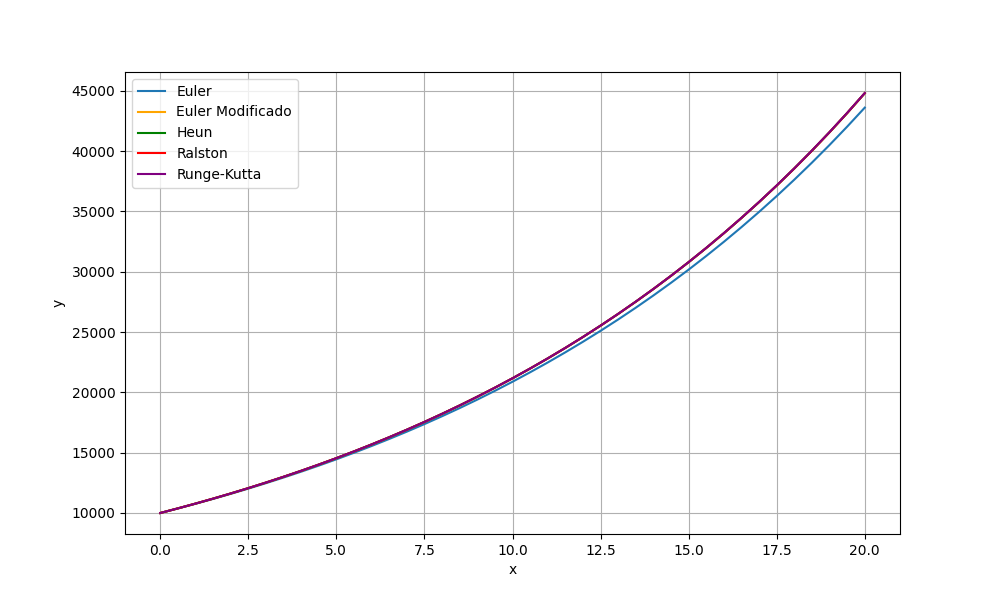
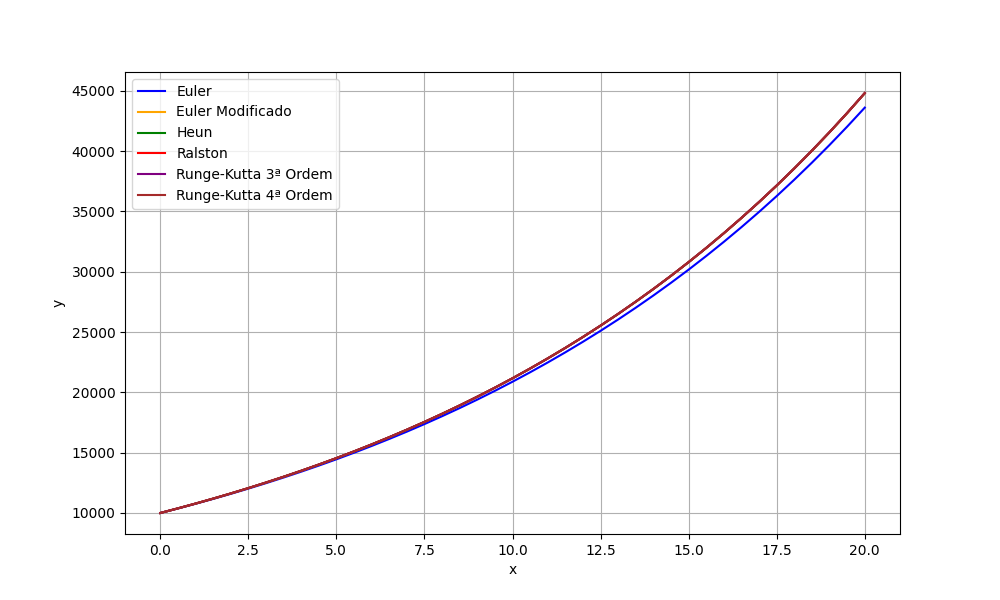
chore: Remove commented code and update output format for Runge-Kutta method

diff --git a/src/Relatorio3/plot_comparacao.py b/src/Relatorio3/plot_comparacao.py
@@ -4,25 +4,15 @@ from euler import euler
 from euler_modificado import euler_modificado
 from heun import heun
 from ralston import ralston
-from runge_kutta import runge_kutta
+from runge_kutta import runge_kutta_terceira_ordem, runge_kutta_quarta_ordem
 
 def plot_all(data: list[(float, float)], output: str, labels: list):
     fig, ax = plt.subplots(figsize=(10, 6))
+    colors = ['blue', 'orange', 'green', 'red', 'purple', 'brown']
     
-    x, y = zip(*data[0])
-    ax.plot(x, y, label=labels[0])
-    
-    x, y = zip(*data[1])
-    ax.plot(x, y, label=labels[1], color='orange')
-    
-    x, y = zip(*data[2])
-    ax.plot(x, y, label=labels[2], color='green')
-    
-    x, y = zip(*data[3])
-    ax.plot(x, y, label=labels[3], color='red')
-    
-    x, y = zip(*data[4])
-    ax.plot(x, y, label=labels[4], color='purple')
+    for i in range(6):
+        x, y = zip(*data[i])
+        ax.plot(x, y, label=labels[i], color=colors[i])
     
     ax.set_xlabel('x')
     ax.set_ylabel('y')
@@ -33,42 +23,16 @@ def plot_all(data: list[(float, float)], output: str, labels: list):
 
 def plot_all_side(data: list[(float, float)], output: str, labels: list[str]):
     fig, ax = plt.subplots(2, 3, figsize=(10, 6), sharey=True)
+    colors = ['blue', 'orange', 'green', 'red', 'purple', 'brown']
     
-    x, y = zip(*data[0])
-    ax[0, 0].plot(x, y, label=labels[0])
-    ax[0, 0].set_title('Método de Euler')
-    ax[0, 0].set_xlabel('x')
-    ax[0, 0].set_ylabel('y')
-    ax[0, 0].grid(True)
+    for i in range(len(data)):
+        x, y = zip(*data[i])
+        ax[i // 3, i % 3].plot(x, y, label=labels[i], color=colors[i])
+        ax[i // 3, i % 3].set_title(f'Método de {labels[i]}')
+        ax[i // 3, i % 3].set_xlabel('x')
+        ax[i // 3, i % 3].grid(True)
     
-    x, y = zip(*data[1])
-    ax[0, 1].plot(x, y, label=labels[1], color='orange')
-    ax[0, 1].set_title('Método de Euler Modificado')
-    ax[0, 1].set_xlabel('x')
-    ax[0, 1].grid(True)
-    
-    x, y = zip(*data[2])
-    ax[0, 2].plot(x, y, label=labels[2], color='green')
-    ax[0, 2].set_title('Método de Heun')
-    ax[0, 2].set_xlabel('x')
-    ax[0, 2].grid(True)
-    
-    x, y = zip(*data[3])
-    ax[1, 0].plot(x, y, label=labels[3], color='red')
-    ax[1, 0].set_title('Método de Ralston')
-    ax[1, 0].set_xlabel('x')
-    ax[1, 0].set_ylabel('y')
-    ax[1, 0].grid(True)
-    
-    x, y = zip(*data[4])
-    ax[1, 1].plot(x, y, label=labels[4])
-    ax[1, 1].set_title('Método de Runge-Kutta', color='purple')
-    ax[1, 1].set_xlabel('x')
-    ax[1, 1].grid(True)
-    
-    ax[1, 2].axis('off')
     fig.tight_layout()
-    
     
     plt.savefig(output)
 
@@ -92,7 +56,8 @@ results.append(euler(f, amplitude, limite_inf, limite_sup, valor_inicial))
 results.append(euler_modificado(f, amplitude, limite_inf, limite_sup, valor_inicial))
 results.append(heun(f, amplitude, limite_inf, limite_sup, valor_inicial))
 results.append(ralston(f, amplitude, limite_inf, limite_sup, valor_inicial))
-results.append(runge_kutta(f, amplitude, limite_inf, limite_sup, valor_inicial))
+results.append(runge_kutta_terceira_ordem(f, amplitude, limite_inf, limite_sup, valor_inicial))
+results.append(runge_kutta_quarta_ordem(f, amplitude, limite_inf, limite_sup, valor_inicial))
 
-plot_all(results, "outputs/exercicio_12.10_comparacao.png", ["Euler", "Euler Modificado", "Heun", "Ralston", "Runge-Kutta"])
-plot_all_side(results, "outputs/exercicio_12.10_comparacao_lado-a-lado.png", ["Euler", "Euler Modificado", "Heun", "Ralston", "Runge-Kutta"])
+plot_all(results, "outputs/exercicio_12.10_comparacao.png", ["Euler", "Euler Modificado", "Heun", "Ralston", "Runge-Kutta 3ª Ordem", "Runge-Kutta 4ª Ordem"])
+plot_all_side(results, "outputs/exercicio_12.10_comparacao_lado-a-lado.png", ["Euler", "Euler Modificado", "Heun", "Ralston", "Runge-Kutta 3ª Ordem", "Runge-Kutta 4ª Ordem"])

diff --git a/src/Relatorio3/runge_kutta.py b/src/Relatorio3/runge_kutta.py
@@ -1,7 +1,41 @@
 import sympy as sp
 from plot import plot
 
-def runge_kutta(f: sp.Expr, h: float, a: float, b: float, y0: float) -> list[(float, float)]:
+def runge_kutta_terceira_ordem(f: sp.Expr, h: float, a: float, b: float, y0: float) -> list[(float, float)]:
+    """Calcula a solução de uma equação diferencial ordinária de primeira ordem pelo método de Runger-Kutta.
+
+    Args:
+        f (sp.Expr): Expressão da função f(x, y)
+        h (float): Tamanho do passo
+        a (float): Limite inferior do intervalo
+        b (float): Limite superior do intervalo
+        y0 (float): Valor inicial de y
+
+    Returns:
+        list[(float, float)]: Lista de tuplas (x, y) com os valores de x e y para cada iteração
+    """
+    x = sp.Symbol('x')
+    y = sp.Symbol('y')
+
+    results = []
+    
+    # adiciona o primeiro valor
+    xi = a
+    yi = y0
+    results.append((xi, yi))
+    
+    # calcula os valores de x e y para cada iteração
+    while xi < b:
+        k1 = f.subs({x: xi, y: yi}).evalf()
+        k2 = f.subs({x: xi + h / 2, y: yi + (h / 2) * k1}).evalf()
+        k3 = f.subs({x: xi + h, y: yi - h * k1 + 2 * h * k2}).evalf()
+        yi = yi + (k1 + 4 * k2 + k3) * (h / 6)
+        xi += h
+        results.append((xi, yi))
+    
+    return results
+
+def runge_kutta_quarta_ordem(f: sp.Expr, h: float, a: float, b: float, y0: float) -> list[(float, float)]:
     """Calcula a solução de uma equação diferencial ordinária de primeira ordem pelo método de Runger-Kutta.
 
     Args:
@@ -80,13 +114,24 @@ def main():
     
     valor_inicial = float(entrada[3])
     
-    with open(output, 'w') as out_file:    
-        results = runge_kutta(f, amplitude, limite_inf, limite_sup, valor_inicial)
+    results_terceira_ordem = runge_kutta_terceira_ordem(f, amplitude, limite_inf, limite_sup, valor_inicial) 
+    results_quarta_ordem = runge_kutta_quarta_ordem(f, amplitude, limite_inf, limite_sup, valor_inicial)
         
-        out_file.write(f"Resultado do metodo de Runge-Kutta:\n[\n")
-        for i in range(len(results)):
-            out_file.write(f"  {i}({results[i][0]:.5f}, {results[i][1]:.5f})")
-            if i == len(results) - 1:
+    with open(output, 'w') as out_file:
+        out_file.write(f"Resultado do metodo de Runge-Kutta Terceira Ordem:\n[\n")
+        for i in range(len(results_terceira_ordem)):
+            out_file.write(f"  {i}({results_terceira_ordem[i][0]:.5f}, {results_terceira_ordem[i][1]:.5f})")
+            if i == len(results_terceira_ordem) - 1:
+                out_file.write(f"\n]")
+            else:
+                out_file.write(f",")
+            if (i + 1) % 4 == 0:
+                out_file.write("\n")
+        
+        out_file.write(f"\n\nResultado do metodo de Runge-Kutta Quarta Ordem:\n[\n")
+        for i in range(len(results_quarta_ordem)):
+            out_file.write(f"  {i}({results_quarta_ordem[i][0]:.5f}, {results_quarta_ordem[i][1]:.5f})")
+            if i == len(results_quarta_ordem) - 1:
                 out_file.write(f"\n]")
             else:
                 out_file.write(f",")
@@ -94,7 +139,10 @@ def main():
                 out_file.write("\n")
                 
     # plota e salva o gráfico dos resultados
-    # plot(results, output.replace('.txt', '.png'), 'Método de Runge-Kutta')
+    output_terceira_ordem = output.replace('.txt', '_terceira_ordem.png')
+    output_quarta_ordem = output.replace('.txt', '_quarta_ordem.png')
+    plot(results_terceira_ordem, output_terceira_ordem, 'Método de Runge-Kutta Terceira Ordem')
+    plot(results_quarta_ordem, output_quarta_ordem, 'Método de Runge-Kutta Quarta Ordem')
 
 if __name__ == "__main__":
     main()

diff --git a/src/Relatorio3/euler_modificado.py b/src/Relatorio3/euler_modificado.py
@@ -80,7 +80,7 @@ def main():
                 out_file.write("\n")
     
     # plota e salva o gráfico dos resultados
-    plot(results, output.replace('.txt', '.png'), 'Método de Euler Modificado')
+    # plot(results, output.replace('.txt', '.png'), 'Método de Euler Modificado')
 
 if __name__ == "__main__":
     main()
